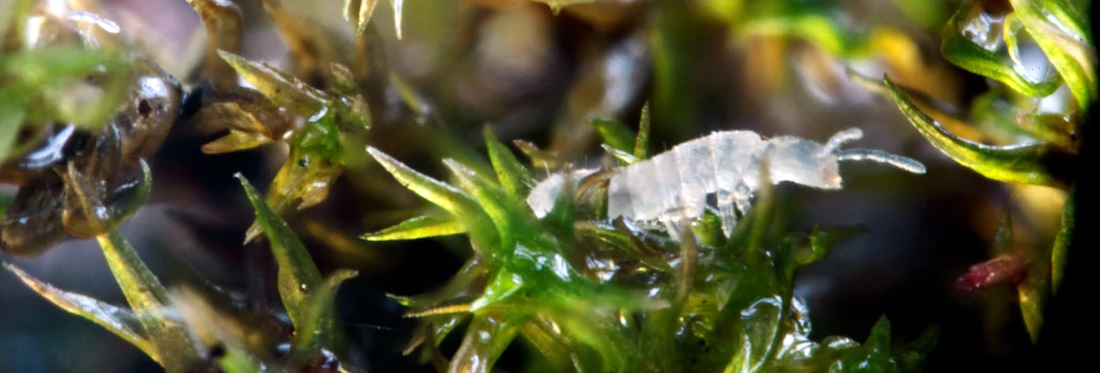
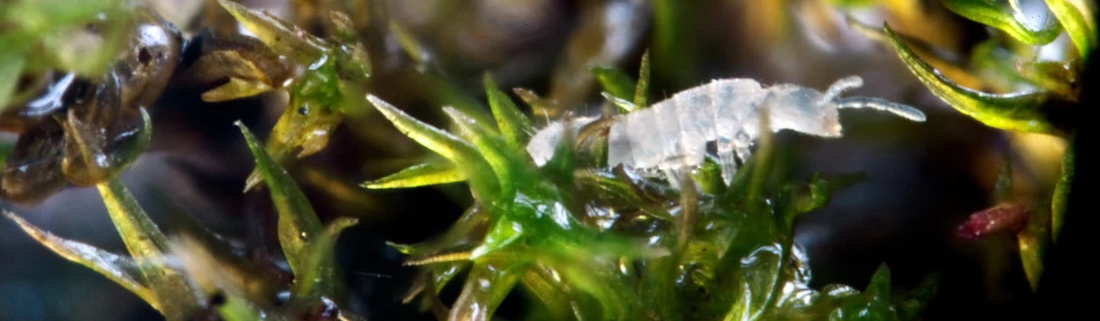
Formatting changes

diff --git a/public/css/custom.css b/public/css/custom.css
@@ -196,3 +196,20 @@ footer {
 .bio-paper-box .home-intro-text {
   margin-left: 0 !important;
 }
+
+/* Ensure featured image containers have the same height and style */
+.featured-image-container,
+.featured-image-fade {
+  min-height: 340px; /* Adjust to match your other pages */
+  width: 100%;
+  object-fit: cover;
+  border-radius: 0;
+  margin-bottom: 0;
+  background: #e0e0e0; /* fallback color */
+}
+
+/* Optional: match fade overlay */
+.featured-image-fade::after,
+.featured-image-fade-overlay {
+  height: 40px !important; /* Match the fade height on all pages */
+}

diff --git a/static/css/custom.css b/static/css/custom.css
@@ -196,3 +196,20 @@ footer {
 .bio-paper-box .home-intro-text {
   margin-left: 0 !important;
 }
+
+/* Ensure featured image containers have the same height and style */
+.featured-image-container,
+.featured-image-fade {
+  min-height: 340px; /* Adjust to match your other pages */
+  width: 100%;
+  object-fit: cover;
+  border-radius: 0;
+  margin-bottom: 0;
+  background: #e0e0e0; /* fallback color */
+}
+
+/* Optional: match fade overlay */
+.featured-image-fade::after,
+.featured-image-fade-overlay {
+  height: 40px !important; /* Match the fade height on all pages */
+}

diff --git a/content/_index.md b/content/_index.md
@@ -1,11 +1,10 @@
 ---
-
 title: " "
-featured_image: "/images/springtail.jpg"
 draft: false
 cascade:
   _build:
     list: never
+featured_image: "/images/springtail.jpg"
 ---
 
 <div class="home-flex-container" style="display: flex; align-items: center; min-height: 220px; margin-top: 20px;">
